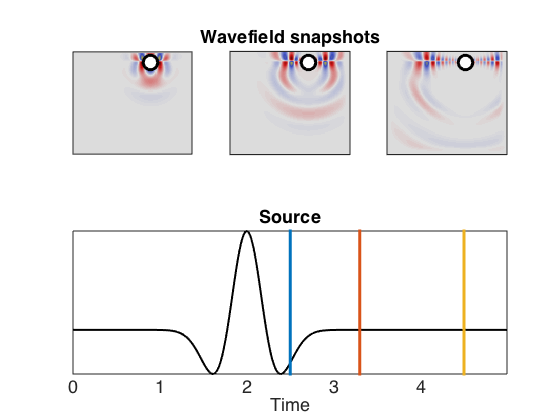
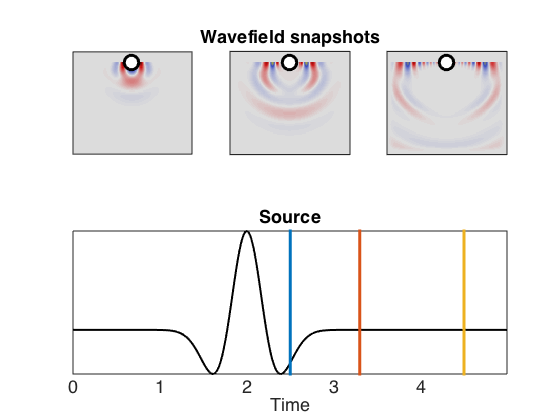
nicer free surf

Changed region(s): [[0.6982, 0.1238, 0.9107, 0.2786], [0.425, 0.1238, 0.6375, 0.2786], [0.1821, 0.1238, 0.3036, 0.2167]]

diff --git a/projects/pdes/elastic/elasticSV2d_pml_freesurf.m b/projects/pdes/elastic/elasticSV2d_pml_freesurf.m
@@ -30,7 +30,7 @@ close all
 % 
 % https://github.com/geodynamics/seismic_cpml/blob/master/seismic_CPML_2D_isotropic_second_order.f90,
 % 
-% but in Matlab.
+% but in Matlab & with free surface boundary conditions at the top.
 % 
 % ------------------------------------------------------------------------------
 % - air at 20C and 1 atm (101.325 kPa): 
@@ -194,11 +194,7 @@ simple_figure()
 % -- source function (real coordinates)
 
 % - source location (real coordinates)
-% src_xz = [(x(end)+x(1))/2 , (z(end)+z(1))*(1/2)];
-% src_xz = [(x(end)+x(1))/2 , z(60)];
-% src_xz = [x(fix(nx*0.5)) , z(fix(nz*0.5))];
-% src_xz = [x(fix(nx*0.5)) , z(20)]; 
-src_xz = [x(fix(nx*0.7)) , z(1)]; 
+src_xz = [x(fix(nx*0.5)) , z(1)]; 
 
 % - source location (index coordinates)
 src_ix = binning(x,src_xz(1));
@@ -554,7 +550,7 @@ for it=1:nt
   % ----------------------------------------------------------------------------
   % compute dsxx and dsxz,
   % for vx
-  iz=2:nz;
+  iz=(2+n_ghost):nz;
   ix=2:nx;
   % interpolate at the right location in the staggered grid cell
   value_dsxx_dx = (sxx(iz,ix) - sxx(iz,ix-1)) / dx;
@@ -569,9 +565,16 @@ for it=1:nt
   % -- update velocity vx
   vx(iz,ix) = vx(iz,ix) + (value_dsxx_dx+value_dsxz_dz)*dt./rho(iz,ix);
   % ----------------------------------------------------------------------------
+  % -- free surface explicit conditions
+  iz=n_ghost+2;
+  ix=1:nx;
+  i_ghost = 1:(n_ghost+1);
+  % -- boundary condition on velocity vx
+  vx(iz-i_ghost,ix)  = 0;
+  % ----------------------------------------------------------------------------
   % compute dsxz and dszz,
   % for vz
-  iz = 1:(nz-1);
+  iz = (1+n_ghost):(nz-1);
   ix = 1:(nx-1);
   % interpolate at the right location in the staggered grid cell
   rho_half_x_half_z = 0.25 * (rho(iz,ix) + rho(iz,ix+1) + rho(iz+1,ix+1) + rho(iz+1,ix));
@@ -588,6 +591,13 @@ for it=1:nt
   % -- update velocity vz
   vz(iz,ix) = vz(iz,ix) + (value_dsxz_dx + value_dszz_dz)*dt ./ rho_half_x_half_z;
   % ----------------------------------------------------------------------------
+  % -- free surface explicit conditions
+  iz=n_ghost+2;
+  ix=1:nx;
+  i_ghost = 1:n_ghost;
+  % -- boundary condition on velocity vz
+  vz(iz-i_ghost-1,ix)  = 0;
+  % ----------------------------------------------------------------------------
   %  source update
   % ----------------------------------------------------------------------------
   % interpolate density at the right location in the staggered grid cell
@@ -603,7 +613,7 @@ for it=1:nt
   vx(:,nx)= 0;
   
   % -- top and bottom edge
-  vx(1,:) = 0;
+  % vx(1,:) = 0;
   vx(nz,:)= 0;
   
   % -- left and right edge
@@ -611,7 +621,7 @@ for it=1:nt
   vz(:,nx)= 0;
   
   % -- top and bottom edge
-  vz(1,:) = 0;
+  % vz(1,:) = 0;
   vz(nz,:)= 0;
   % ----------------------------------------------------------------------------
   %  store wavefield
@@ -620,8 +630,8 @@ for it=1:nt
 end
 toc;
 % ------------------------------------------------------------------------------
-vz_min = min(vz_(:))*0.5;
-vz_max = max(vz_(:))*0.5;
+vz_min = min(vz_(:))*0.2;
+vz_max = max(vz_(:))*0.2;
 
 t1=to*1.25;
 t2=to*1.65;
